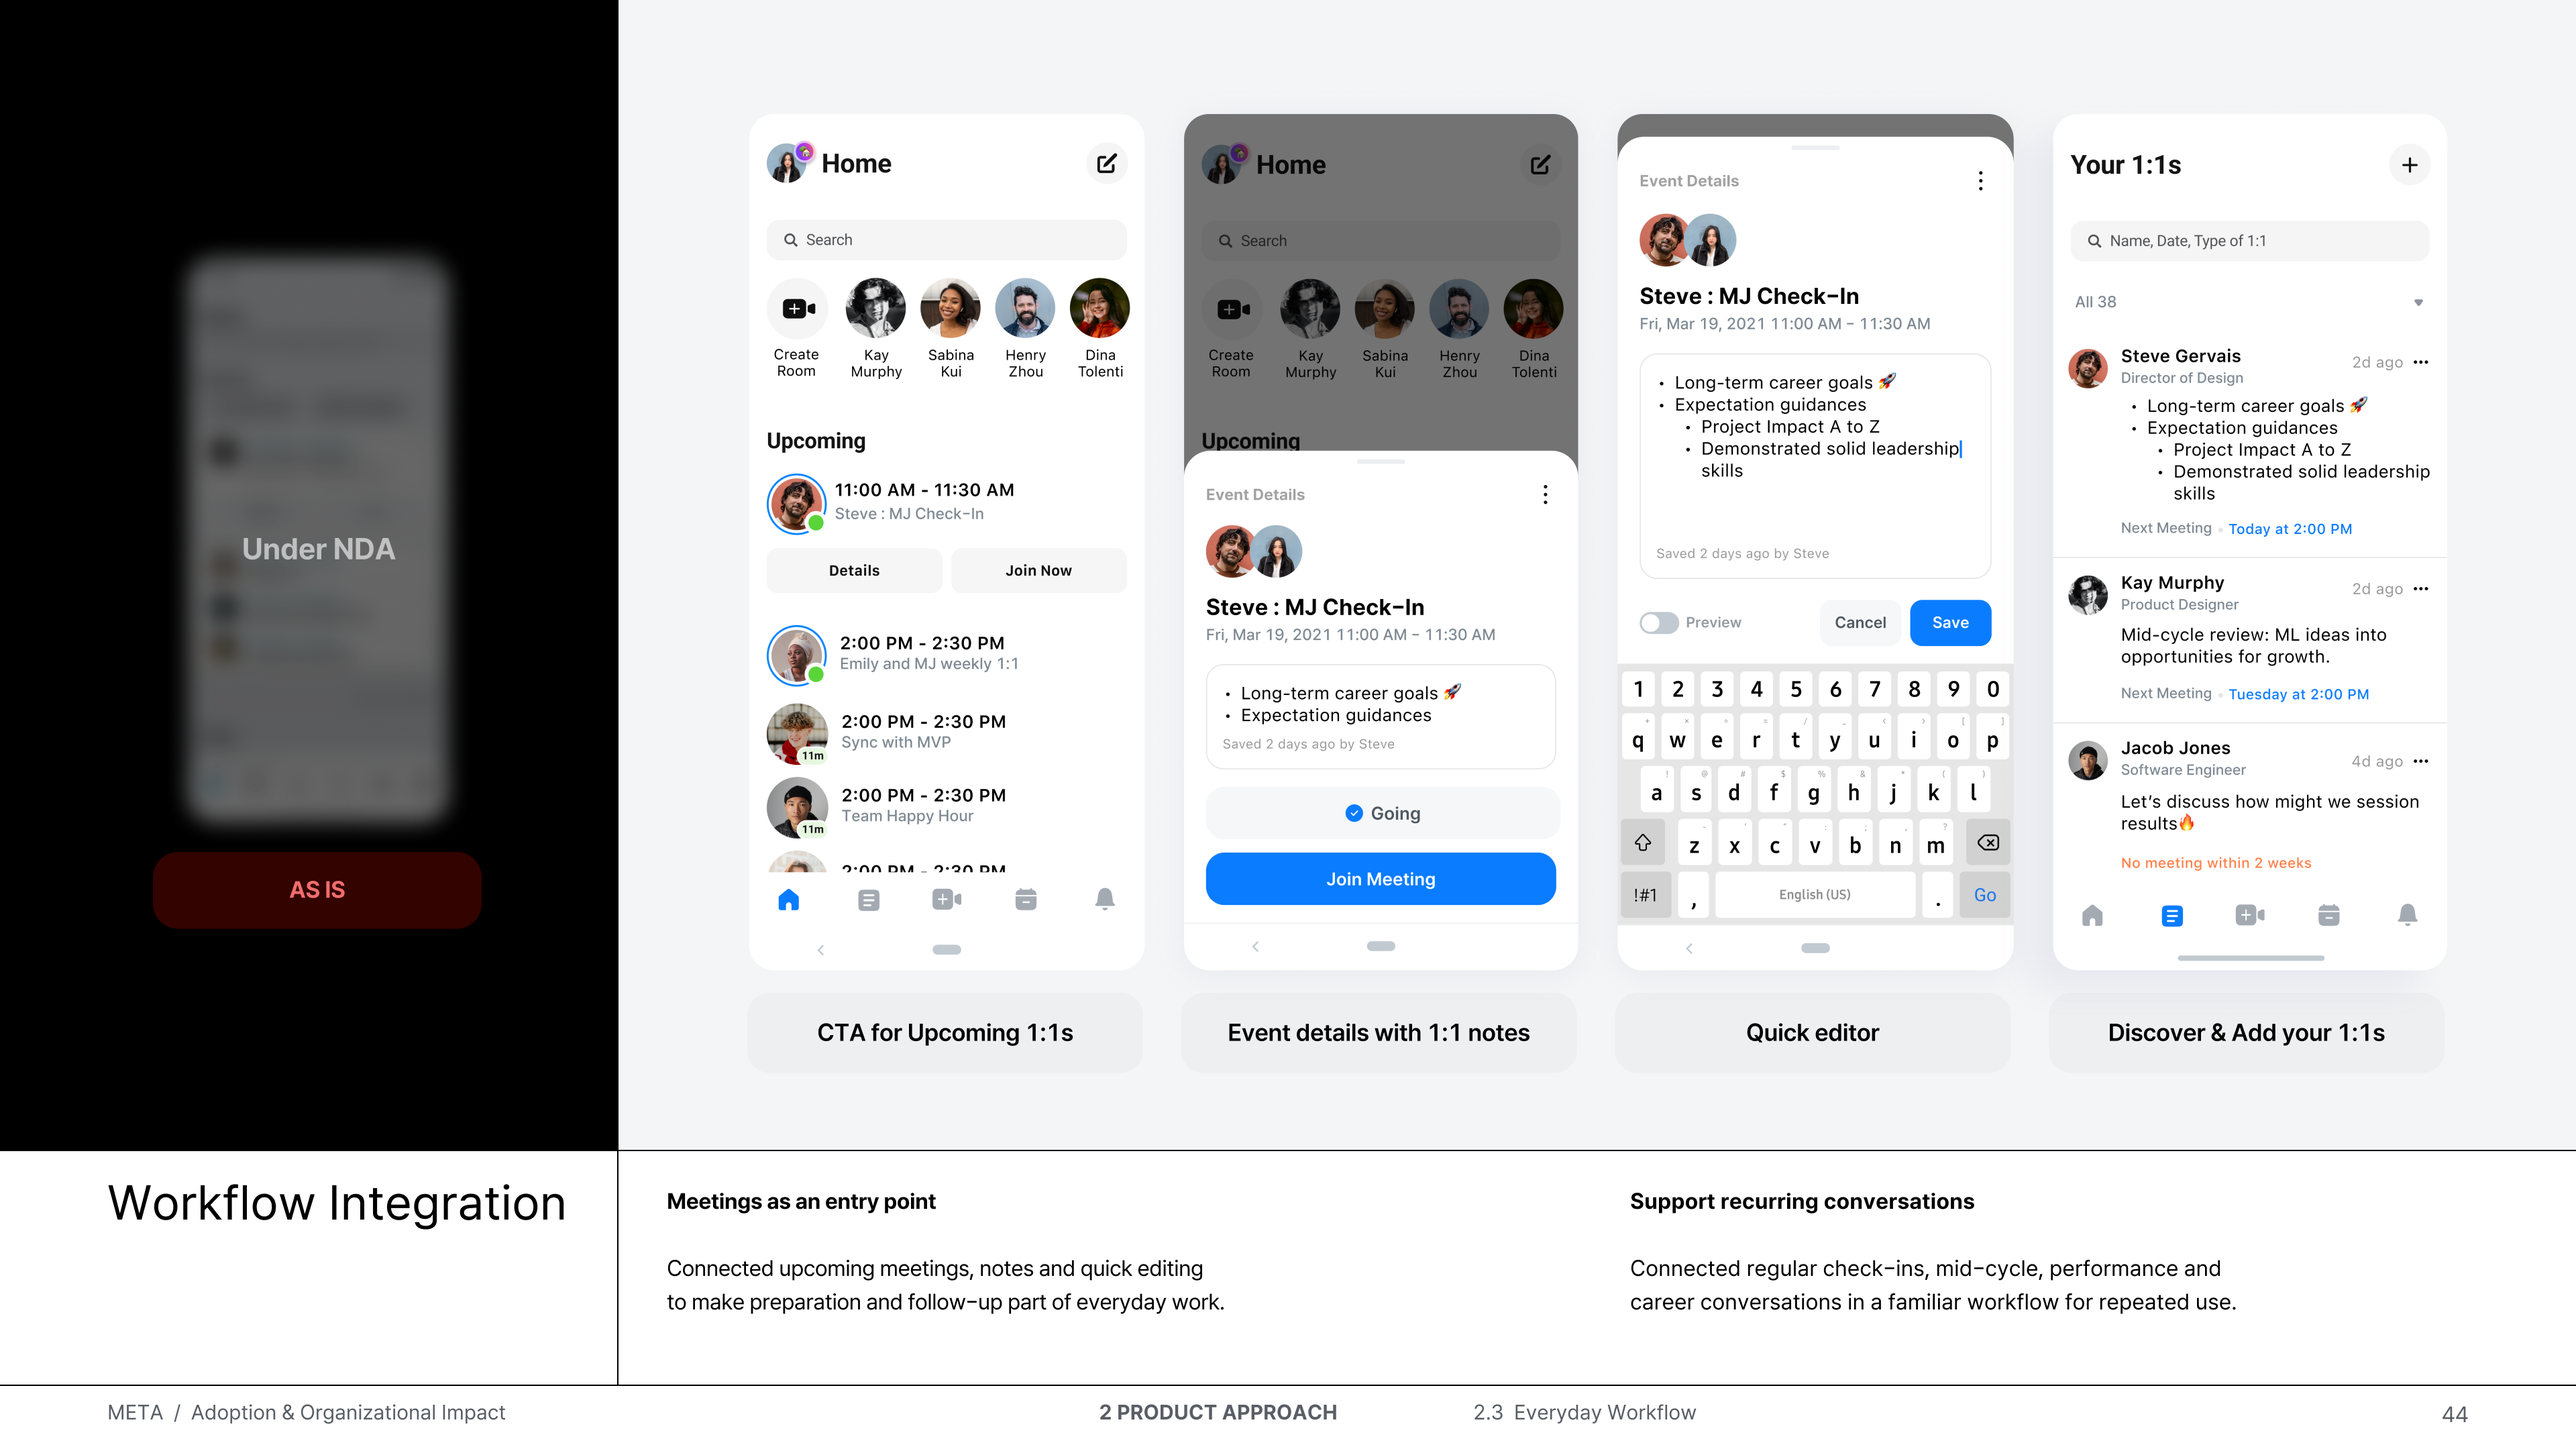
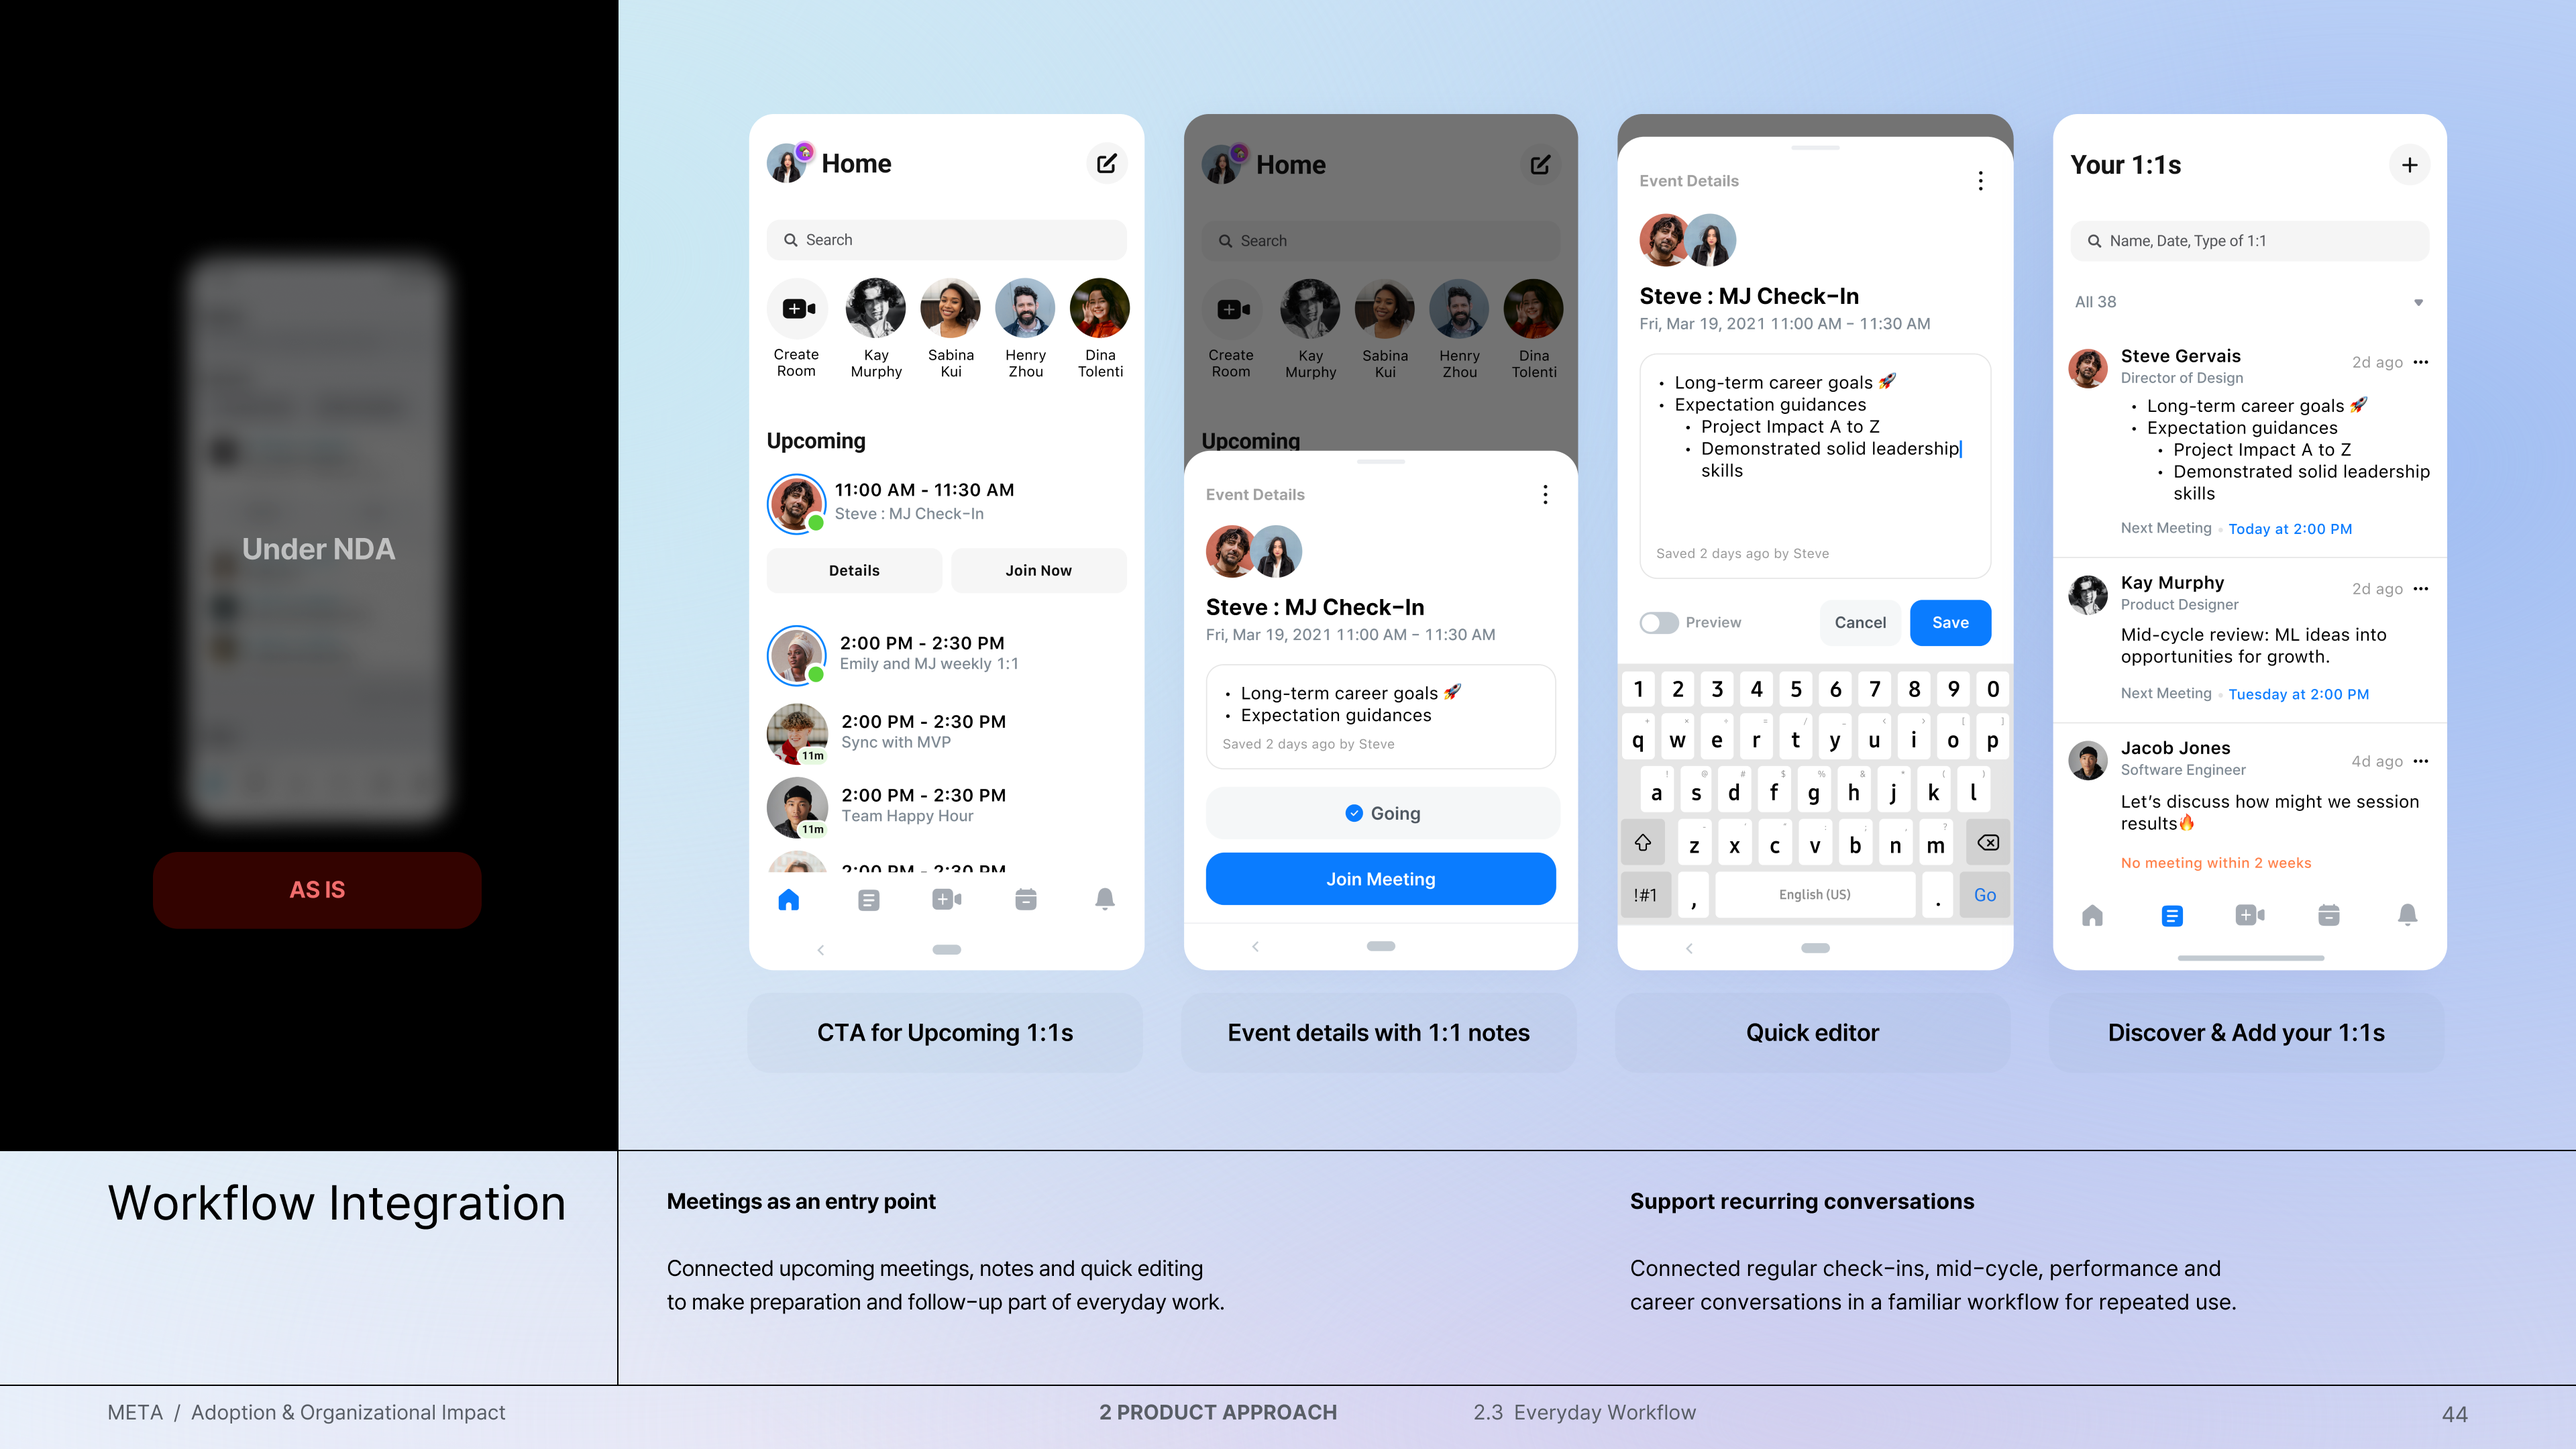
Refresh Meta backgrounds and editable statements

diff --git a/index.html b/index.html
@@ -361,7 +361,7 @@ const DECKS = {
     chapters:[["1 Principles",0],["2 Operating model",2],["3 Shared context",5]] }
 };
 const DECK_BASE = 'assets/decks/';
-const DECK_REVISION = '20261005-4';
+const DECK_REVISION = '20261005-5';
 const slideSrc = name => DECK_BASE + encodeURIComponent(name) + '.png?v=' + DECK_REVISION;
 // Video bounds in the original 1920×1080 Figma frames.
 const SLIDE_VIDEOS = {
